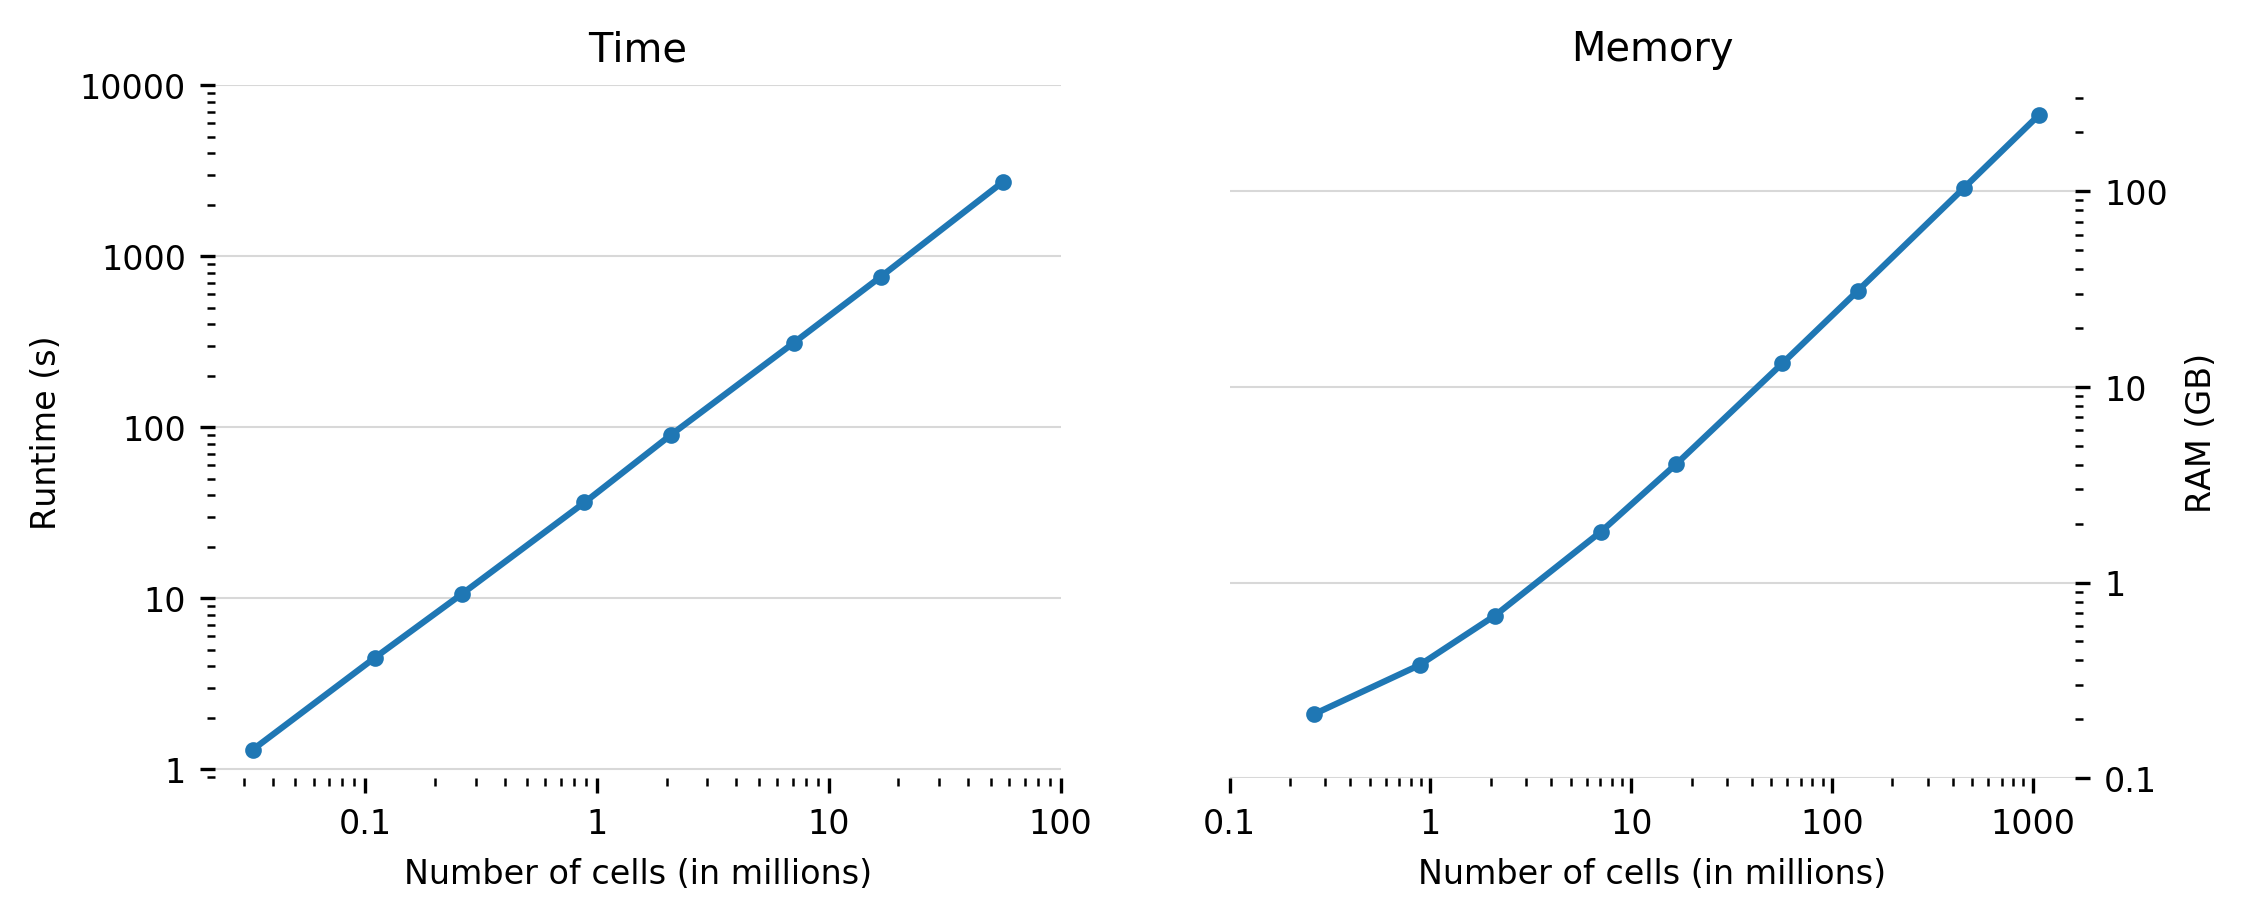
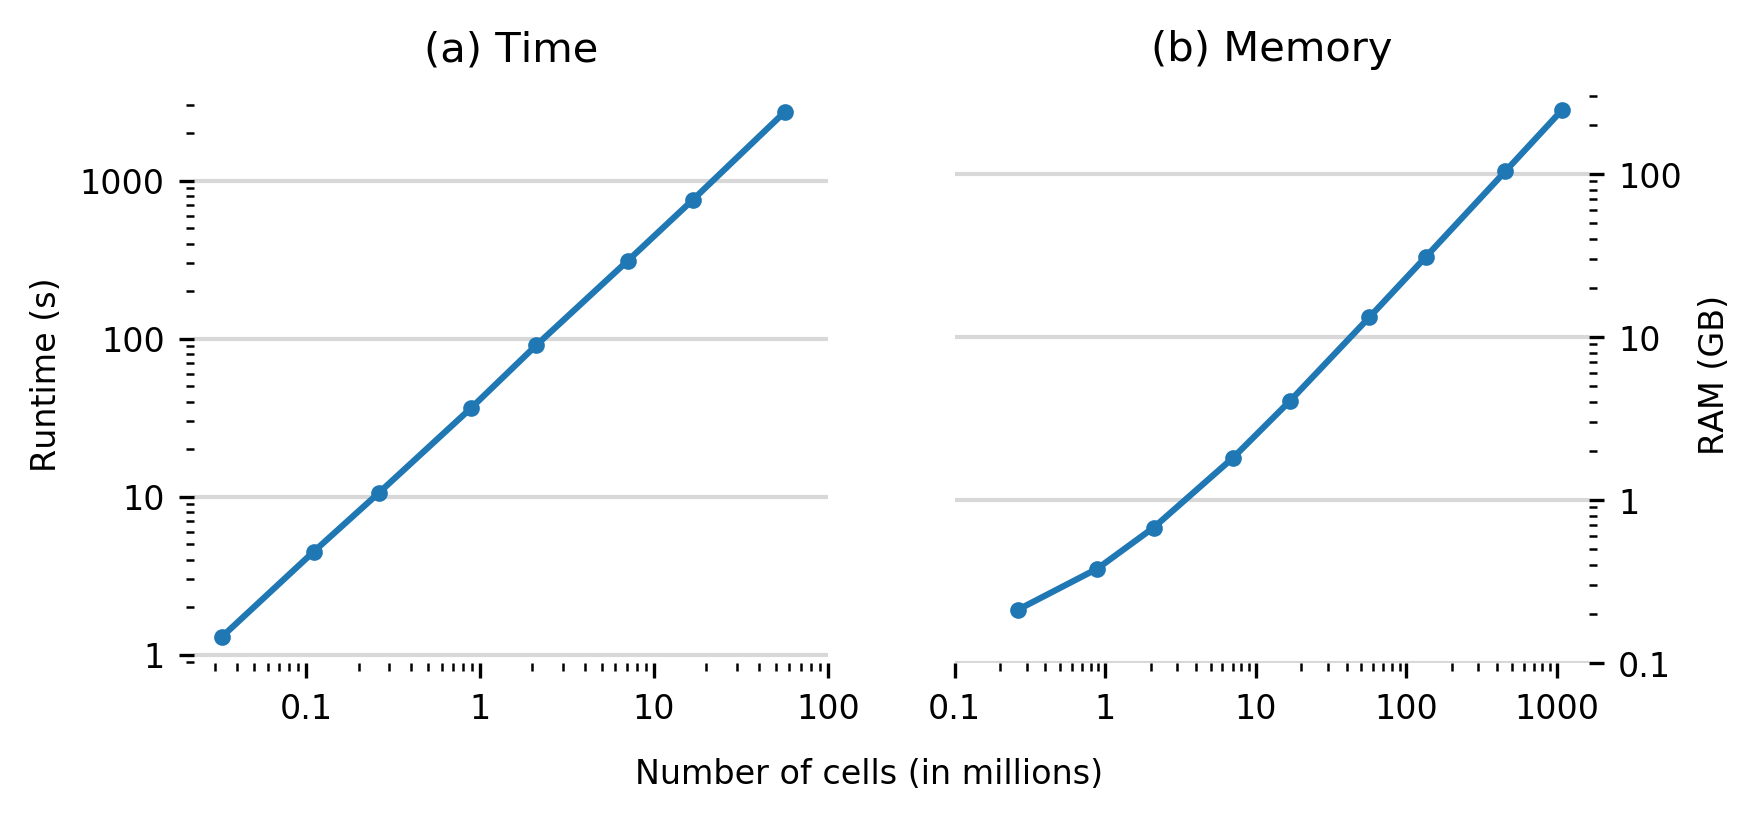
Improve figure; last typos

diff --git a/docs/paper.py b/docs/paper.py
@@ -1,4 +1,5 @@
 # JOSS figure
+# Python file to recreate the figure in the JOSS article paper.md.
 import numpy as np
 import matplotlib.pyplot as plt
 
@@ -8,46 +9,49 @@ plt.rcParams['savefig.dpi'] = 300
 plt.rcParams['font.size'] = 8
 
 # Data is from the notebooks `4a_RAM-requirements.ipynb` and `4b_Runtime.ipynb`
-# in the repo https://github.com/empymod/emg3d-examples.
+# in the repo https://github.com/empymod/emg3d-examples at commit 1a1a658c23
+# (2019-06-05). It was run at the TU Delft server Texel on one thread. From
+# `cat /proc/cpuinfo`: Intel(R) Xeon(R) CPU E5-2680 v3 @ 2.50GHz
 nsizes_mem = np.array([64, 96, 128, 192, 256, 384, 512, 768, 1024])
 mem = np.array([212, 379, 678, 1821, 4035, 13194, 30928, 103691, 245368])
 nsizes_cpu = np.array([32, 48, 64, 96, 128, 192, 256, 384])
 cpu = np.array([1.3, 4.5, 10.6, 36.3, 90.6, 311.9, 758.7, 2727.8])
 
+
+def focus_on_data(ax):
+    """Reduce and hide figure elements to focus on data."""
+    ax.grid(axis='y', color='grey', linestyle='-', linewidth=1, alpha=0.3)
+    ax.spines['top'].set_visible(False)
+    ax.spines['right'].set_visible(False)
+    ax.spines['bottom'].set_visible(False)
+    ax.spines['left'].set_visible(False)
+
+
 # Figure
-plt.figure(figsize=(8, 3))
+fig = plt.figure(figsize=(6, 2.5))
 
+# Runtime subplot
 ax1 = plt.subplot(121)
-plt.title('Time')
-plt.loglog(nsizes_cpu**3/1e6, cpu, '.-', label='runtime')
-plt.xlabel('Number of cells (in millions)')
-plt.ylabel('Runtime (s)')
+plt.title('(a) Time', fontsize=10)
+plt.loglog(nsizes_cpu**3/1e6, cpu, '.-')
+plt.ylabel('Runtime (s)', fontsize=8)
 plt.xticks([1e-1, 1e0, 1e1, 1e2], ('0.1', '1', '10', '100'))
-plt.yticks([1e0, 1e1, 1e2, 1e3, 1e4], ('1', '10', '100', '1000', '10000'))
+plt.yticks([1e0, 1e1, 1e2, 1e3], ('1', '10', '100', '1000'))
+focus_on_data(ax1)
 
-# Show horizontal gridlines, switch off frame
-ax1.grid(axis='y', color='grey', linestyle='-', linewidth=0.5, alpha=0.3)
-ax1.spines['top'].set_visible(False)
-ax1.spines['right'].set_visible(False)
-ax1.spines['bottom'].set_visible(False)
-ax1.spines['left'].set_visible(False)
-
+# Memory subplot
 ax2 = plt.subplot(122)
 ax2.yaxis.tick_right()
 ax2.yaxis.set_label_position("right")
-plt.title('Memory')
-plt.loglog(nsizes_mem**3/1e6, mem/1e3, '.-', zorder=10, label='MG full RAM')
-plt.xlabel('Number of cells (in millions)')
-plt.ylabel('RAM (GB)')
+plt.title('(b) Memory', fontsize=10)
+plt.loglog(nsizes_mem**3/1e6, mem/1e3, '.-')
+plt.ylabel('RAM (GB)', fontsize=8)
 plt.xticks([1e-1, 1e0, 1e1, 1e2, 1e3], ('0.1', '1', '10', '100', '1000'))
 plt.yticks([1e-1, 1e0, 1e1, 1e2], ('0.1', '1', '10', '100'))
+focus_on_data(ax2)
 
-# Show horizontal gridlines, switch off frame
-ax2.grid(axis='y', color='grey', linestyle='-', linewidth=0.5, alpha=0.3)
-ax2.spines['top'].set_visible(False)
-ax2.spines['right'].set_visible(False)
-ax2.spines['bottom'].set_visible(False)
-ax2.spines['left'].set_visible(False)
+# Combined x-label
+fig.text(0.5, -0.05, 'Number of cells (in millions)', ha='center', fontsize=8)
 
+# Save the figure
 plt.savefig('paper.png', bbox_inches='tight')
-plt.show()

diff --git a/docs/paper.md b/docs/paper.md
@@ -41,9 +41,10 @@ $$ \eta \mathbf{E} - \nabla \times \mu_\mathrm{r}^{-1} \nabla \times \mathbf{E}
 
 where $\eta = \mathrm{i}\omega \mu_0(\sigma - \mathrm{i}\omega\varepsilon)$.
 The electric field and the current source are denoted as $\mathbf{E}$ and
-$\mathbf{J}_\mathrm{s}$, respectively, $\sigma$ is conductivity, $\omega$ is
-angular frequency, $\varepsilon=\varepsilon_0\varepsilon_\mathrm{r}$ the
-electric permittivity, and $\mu=\mu_0\mu_\mathrm{r}$ the magnetic permeability.
+$\mathbf{J}_\mathrm{s}$, respectively, $\sigma$ is the conductivity, $\omega$
+is the angular frequency, $\varepsilon=\varepsilon_0\varepsilon_\mathrm{r}$ is
+the electric permittivity, and $\mu=\mu_0\mu_\mathrm{r}$ is the magnetic
+permeability.
 
 Various open-source codes exist to model CSEM responses for a layered Earth,
 e.g., *DIPOLE1D* [@DIPOLE1D] and *empymod* [@empymod], and for a
@@ -70,7 +71,7 @@ directions) and *line relaxation* (solving for the values of a whole gridline
 simultaneously in some directions) inside the multigrid technique to deal with
 these issues [@Jonsthovel:2006].
 
-![Example showing the optimal scaling of emg3d for both runtime and memory consumption. Here for a homogeneous fullspace of 1 S/m and a frequency of 1 Hz (single thread on an Intel(R) Xeon(R) CPU @ 2.50GHz).](paper.png)
+![Example showing the optimal scaling of emg3d for both (a) runtime and (b) memory consumption. The model is a homogeneous fullspace of 1 S/m and frequency is 1 Hz (running as a single thread on an Intel(R) Xeon(R) CPU @ 2.50GHz).](paper.png)
 
 The code is written completely in Python using the NumPy/SciPy stack
 [@NumPy;@SciPy], where the most time- and memory-consuming parts are sped up
